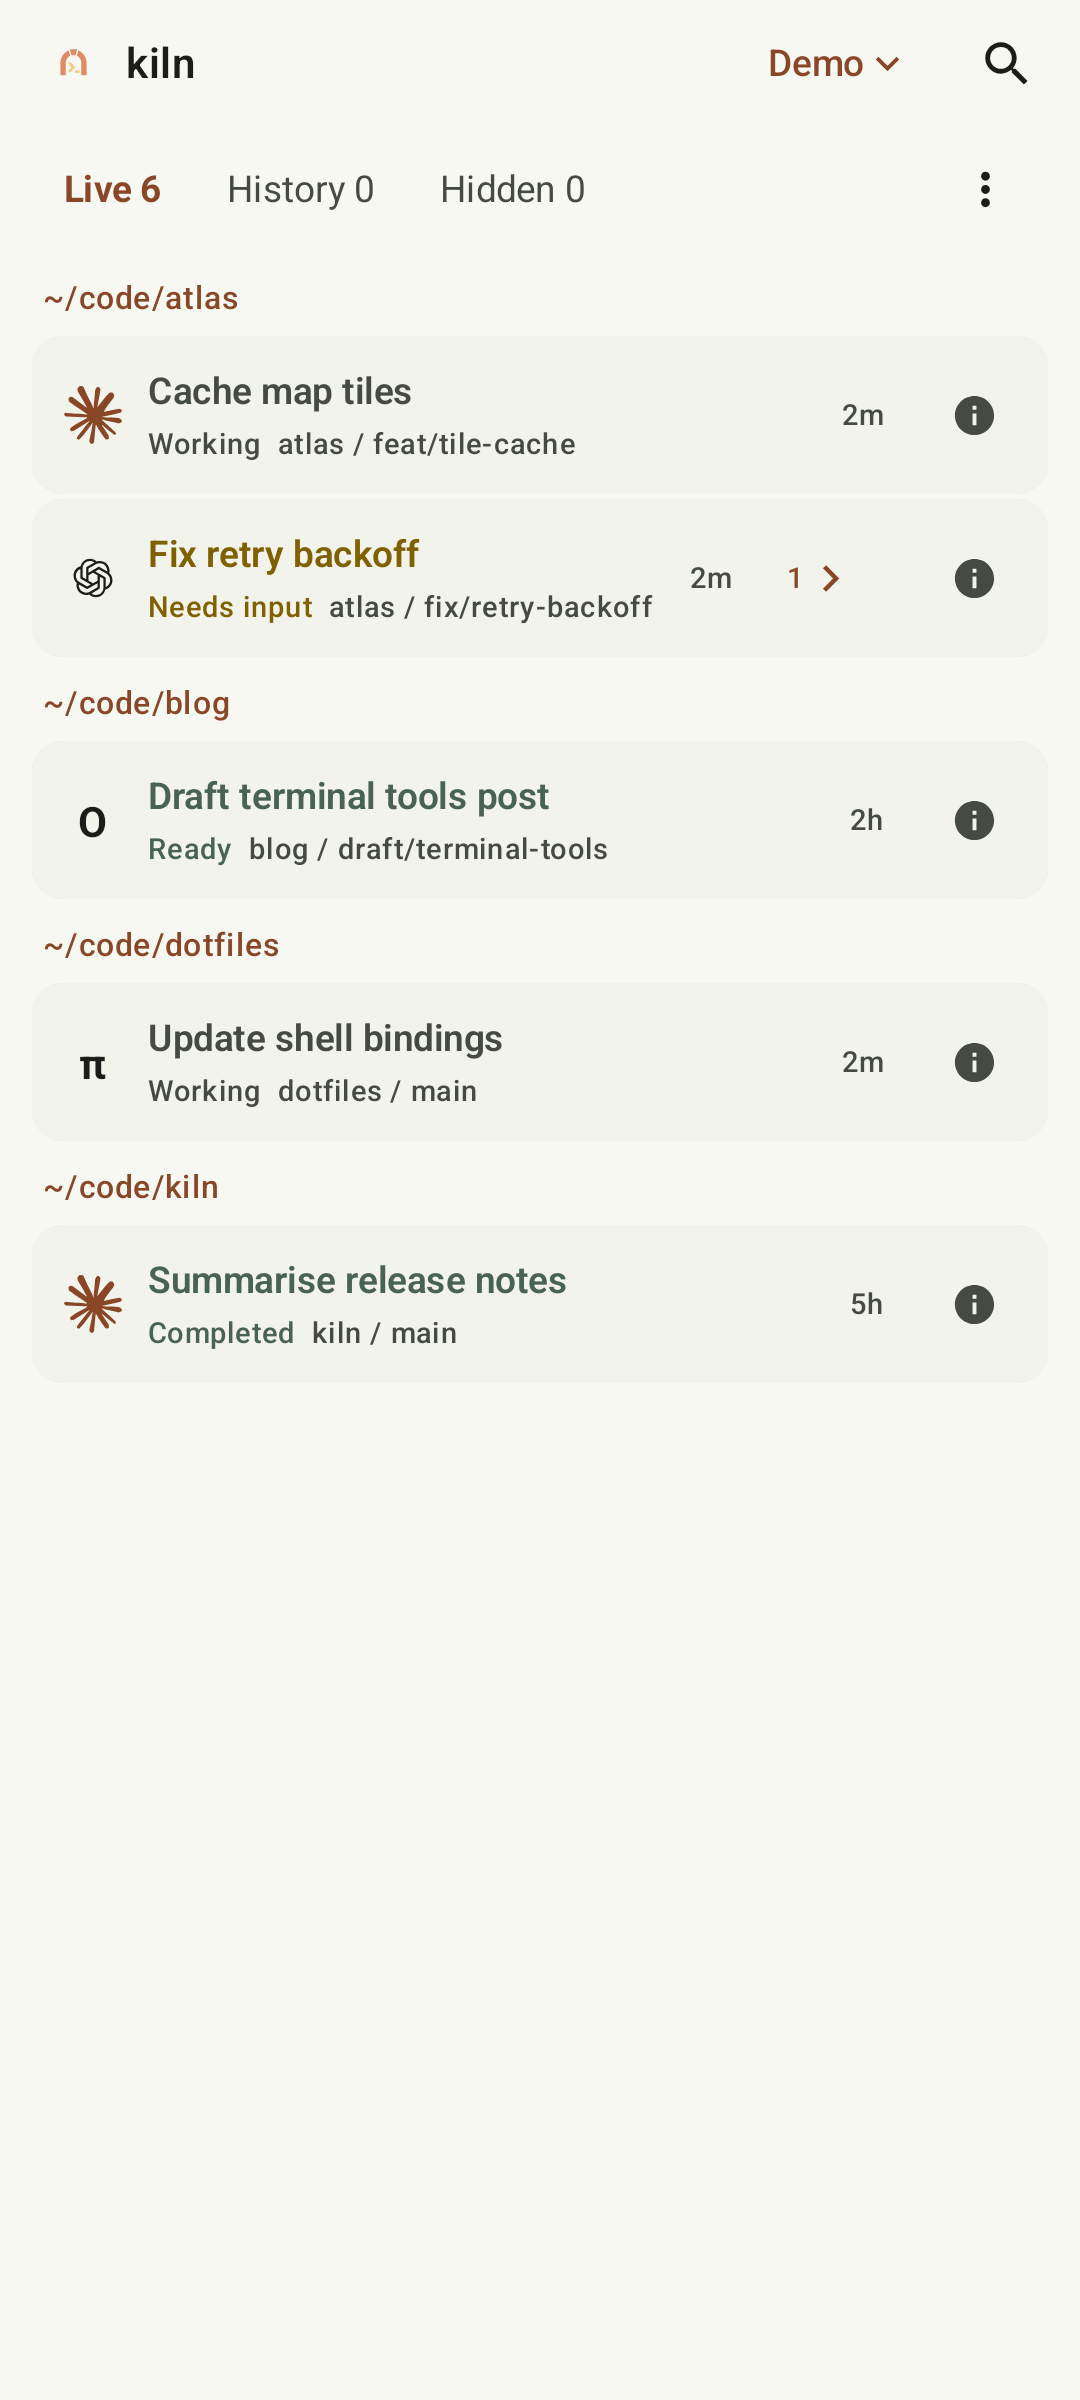
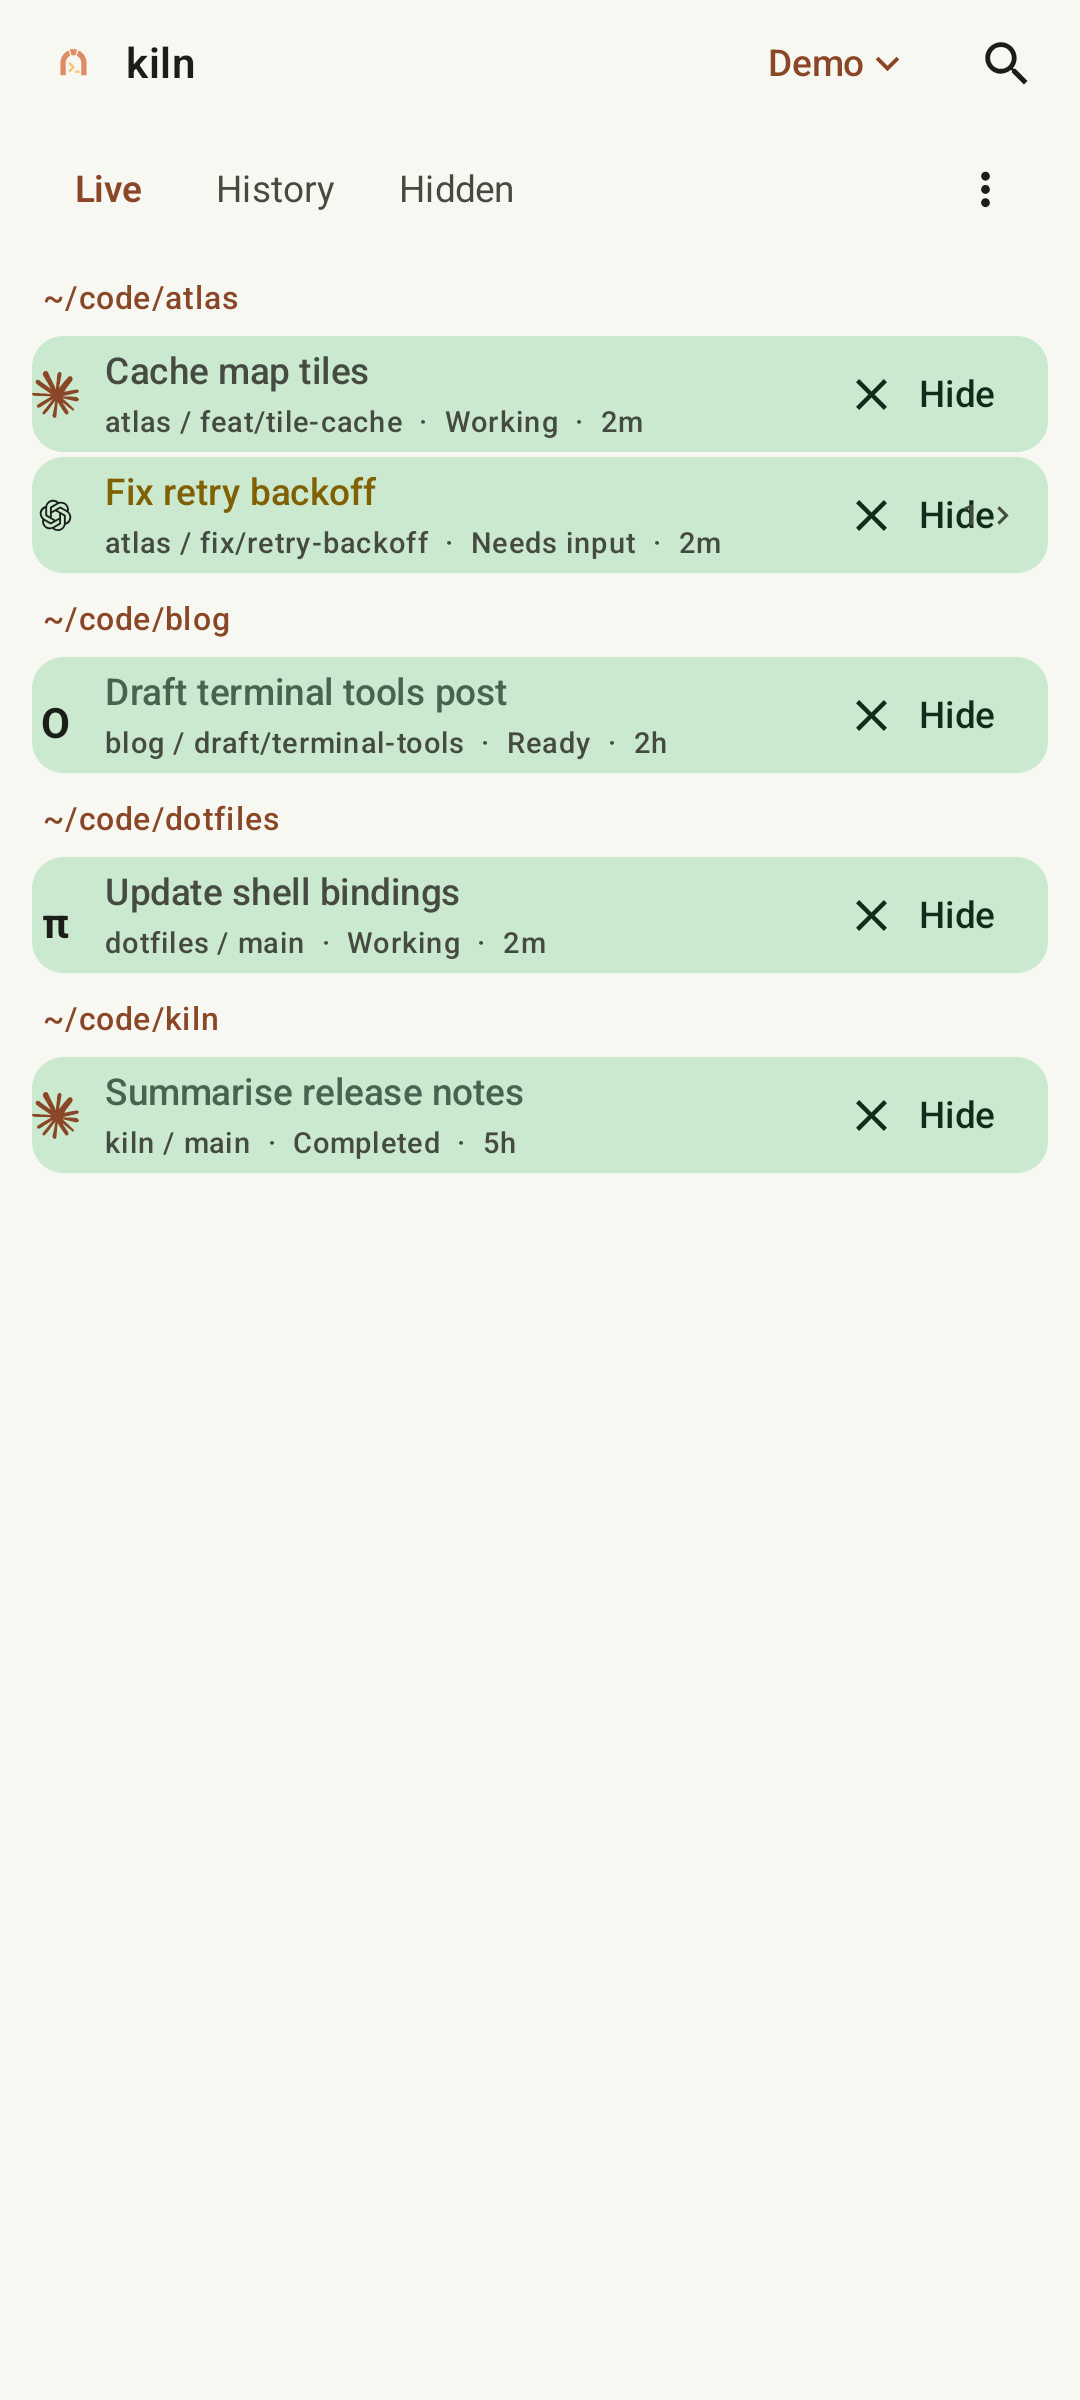
feat: flatten the Android list and quiet its header (#61)
The Android session list was heavier than the terminal. This makes the
rows text-first, matching the TUI:

- Rows drop the `Card`, the activity pill and the per-row buttons.
- The title is coloured by status; the second line is directory / branch
· status · time in muted text.
- Long-press a row for details (tap still opens).
- The Live / History / Hidden tabs drop their counts and the filter
badge.

Build is green locally: `checkKotlinFormat`, `testDebugUnitTest`,
`lintDebug`, `assembleDebug`. Android mock screenshots regenerated.

diff --git a/android/app/src/main/java/com/cjber/kiln/SessionCard.kt b/android/app/src/main/java/com/cjber/kiln/SessionCard.kt
@@ -1,16 +1,17 @@
 package com.cjber.kiln
 
+import androidx.compose.foundation.clickable
+import androidx.compose.foundation.combinedClickable
 import androidx.compose.foundation.layout.*
-import androidx.compose.foundation.shape.CircleShape
+import androidx.compose.foundation.shape.RoundedCornerShape
 import androidx.compose.material.icons.Icons
 import androidx.compose.material.icons.automirrored.filled.KeyboardArrowRight
-import androidx.compose.material.icons.filled.Check
-import androidx.compose.material.icons.filled.Info
 import androidx.compose.material.icons.filled.KeyboardArrowDown
 import androidx.compose.material3.*
 import androidx.compose.runtime.Composable
 import androidx.compose.ui.Alignment
 import androidx.compose.ui.Modifier
+import androidx.compose.ui.draw.clip
 import androidx.compose.ui.semantics.contentDescription
 import androidx.compose.ui.semantics.semantics
 import androidx.compose.ui.text.font.FontWeight
@@ -78,21 +79,6 @@ fun AgentMark(agent: Agent, modifier: Modifier = Modifier) {
 }
 
 @Composable
-fun ActivityBadge(activity: Activity) {
-    val color = activityColor(activity)
-    Surface(shape = CircleShape, color = color.copy(alpha = 0.12f), contentColor = color) {
-        Row(
-            Modifier.padding(horizontal = 10.dp, vertical = 5.dp),
-            verticalAlignment = Alignment.CenterVertically,
-            horizontalArrangement = Arrangement.spacedBy(6.dp),
-        ) {
-            Surface(Modifier.size(6.dp), shape = CircleShape, color = color) {}
-            Text(activityName(activity), style = MaterialTheme.typography.labelMedium)
-        }
-    }
-}
-
-@Composable
 fun SessionCard(
     item: SessionItem.Entry,
     now: Long,
@@ -100,44 +86,34 @@ fun SessionCard(
     open: () -> Unit,
     details: () -> Unit,
     toggle: () -> Unit,
-    restore: (() -> Unit)?,
 ) {
     val row = item.row
     val openable = row.url != null
-    Card(
-        onClick = if (openable) open else details,
-        modifier = Modifier.fillMaxWidth().padding(start = if (item.depth > 0) 16.dp else 0.dp),
-        shape = androidx.compose.foundation.shape.RoundedCornerShape(12.dp),
-        colors =
-            CardDefaults.cardColors(containerColor = MaterialTheme.colorScheme.surfaceContainerLow),
-    ) {
-        Row(
+    Row(
+        modifier =
             Modifier.fillMaxWidth()
-                .heightIn(min = 60.dp)
-                .padding(start = 12.dp, end = 4.dp, top = 4.dp, bottom = 4.dp),
-            verticalAlignment = Alignment.CenterVertically,
-            horizontalArrangement = Arrangement.spacedBy(10.dp),
-        ) {
-            AgentMark(row.agent)
-            Column(Modifier.weight(1f), verticalArrangement = Arrangement.spacedBy(2.dp)) {
-                Text(
-                    row.title,
-                    color = activityColor(row.activity),
-                    style = MaterialTheme.typography.bodyMedium,
-                    fontWeight = FontWeight.SemiBold,
-                    maxLines = 1,
-                    overflow = TextOverflow.Ellipsis,
+                .heightIn(min = 44.dp)
+                .combinedClickable(
+                    onClick = { if (openable) open() else details() },
+                    onLongClickLabel = "Details",
+                    onLongClick = details,
                 )
-                Row(
-                    verticalAlignment = Alignment.CenterVertically,
-                    horizontalArrangement = Arrangement.spacedBy(6.dp),
-                ) {
-                    Text(
-                        activityName(row.activity),
-                        style = MaterialTheme.typography.labelSmall,
-                        color = activityColor(row.activity),
-                    )
-                    Text(
+                .padding(start = if (item.depth > 0) 20.dp else 0.dp, end = 4.dp),
+        verticalAlignment = Alignment.CenterVertically,
+        horizontalArrangement = Arrangement.spacedBy(10.dp),
+    ) {
+        AgentMark(row.agent, Modifier.size(18.dp))
+        Column(Modifier.weight(1f), verticalArrangement = Arrangement.spacedBy(1.dp)) {
+            Text(
+                row.title,
+                color = activityColor(row.activity),
+                style = MaterialTheme.typography.bodyMedium,
+                fontWeight = FontWeight.Medium,
+                maxLines = 1,
+                overflow = TextOverflow.Ellipsis,
+            )
+            Text(
+                listOfNotNull(
                         if (row.where == Place.CLOUD) "Cloud"
                         else
                             listOf(
@@ -145,48 +121,39 @@ fun SessionCard(
                                     row.branch.takeIf { it.isNotBlank() },
                                 )
                                 .filterNotNull()
-                                .joinToString(" / "),
-                        style = MaterialTheme.typography.labelSmall,
-                        color = MaterialTheme.colorScheme.onSurfaceVariant,
-                        maxLines = 1,
-                        overflow = TextOverflow.Ellipsis,
-                        modifier = Modifier.weight(1f),
+                                .joinToString(" / ")
+                                .takeIf { it.isNotBlank() },
+                        activityName(row.activity),
+                        if (row.active > 0) elapsed(row.active, now) else null,
                     )
-                }
-            }
-            Text(
-                if (row.active > 0) elapsed(row.active, now) else "?",
+                    .joinToString("  ·  "),
                 style = MaterialTheme.typography.labelSmall,
                 color = MaterialTheme.colorScheme.onSurfaceVariant,
-                modifier =
-                    Modifier.semantics { contentDescription = relativeTime(row.active, now) },
+                maxLines = 1,
+                overflow = TextOverflow.Ellipsis,
             )
-            if (item.children > 0)
-                TextButton(
-                    onClick = toggle,
-                    contentPadding = PaddingValues(0.dp),
-                    modifier = Modifier.size(48.dp),
-                ) {
-                    Text(item.children.toString(), style = MaterialTheme.typography.labelSmall)
-                    Icon(
-                        if (expanded) Icons.Default.KeyboardArrowDown
-                        else Icons.AutoMirrored.Filled.KeyboardArrowRight,
-                        "${if (expanded) "Collapse" else "Expand"} ${item.children} subagents",
-                        modifier = Modifier.size(20.dp),
-                    )
-                }
-            if (restore != null)
-                IconButton(onClick = restore, modifier = Modifier.size(48.dp)) {
-                    Icon(Icons.Default.Check, "Restore ${row.title}", Modifier.size(20.dp))
-                }
-            IconButton(onClick = details, modifier = Modifier.size(48.dp)) {
+        }
+        if (item.children > 0)
+            Row(
+                modifier =
+                    Modifier.clip(RoundedCornerShape(6.dp))
+                        .clickable(onClick = toggle)
+                        .padding(horizontal = 6.dp, vertical = 4.dp),
+                verticalAlignment = Alignment.CenterVertically,
+                horizontalArrangement = Arrangement.spacedBy(2.dp),
+            ) {
+                Text(
+                    item.children.toString(),
+                    style = MaterialTheme.typography.labelSmall,
+                    color = MaterialTheme.colorScheme.onSurfaceVariant,
+                )
                 Icon(
-                    Icons.Default.Info,
-                    "Details for ${row.title}",
-                    modifier = Modifier.size(18.dp),
+                    if (expanded) Icons.Default.KeyboardArrowDown
+                    else Icons.AutoMirrored.Filled.KeyboardArrowRight,
+                    null,
+                    Modifier.size(14.dp),
                     tint = MaterialTheme.colorScheme.onSurfaceVariant,
                 )
             }
-        }
     }
 }

diff --git a/android/app/src/main/java/com/cjber/kiln/SessionUi.kt b/android/app/src/main/java/com/cjber/kiln/SessionUi.kt
@@ -233,7 +233,7 @@ fun SessionScreen(
                             ErrorNotice(error, onDismissError)
                             if (problem.isNotBlank())
                                 ConnectionNotice("Discovery needs attention", problem, onReconnect)
-                            if (!fresh)
+                            if (state != ConnectionState.CONNECTED)
                                 ConnectionNotice(
                                     status,
                                     if (loaded) "Last update: ${relativeTime(updated, now)}."
@@ -266,17 +266,6 @@ fun SessionScreen(
                                 )
                             Row(verticalAlignment = Alignment.CenterVertically) {
                                 SessionScope.entries.forEach { value ->
-                                    val count =
-                                        sessionItems(
-                                                rows,
-                                                SessionOrder.RECENT,
-                                                "",
-                                                rows.mapTo(mutableSetOf()) { it.id },
-                                                value,
-                                                now,
-                                                hiddenIds = hiddenIds,
-                                            )
-                                            .count { it is SessionItem.Entry }
                                     TextButton(
                                         modifier = Modifier.semantics { selected = scope == value },
                                         onClick = {
@@ -292,24 +281,20 @@ fun SessionScreen(
                                             ),
                                     ) {
                                         Text(
-                                            "${value.label} $count",
+                                            value.label,
                                             fontWeight =
-                                                if (scope == value) FontWeight.Bold
+                                                if (scope == value) FontWeight.SemiBold
                                                 else FontWeight.Normal,
                                         )
                                     }
                                 }
                                 Spacer(Modifier.weight(1f))
                                 IconButton(onClick = { options = true }) {
-                                    BadgedBox(
-                                        badge = { if (agent != null || activity != null) Badge() }
-                                    ) {
-                                        Icon(
-                                            Icons.Default.MoreVert,
-                                            "Filter and sort sessions: ${sort.label}",
-                                            Modifier.size(20.dp),
-                                        )
-                                    }
+                                    Icon(
+                                        Icons.Default.MoreVert,
+                                        "Filter and sort sessions: ${sort.label}",
+                                        Modifier.size(20.dp),
+                                    )
                                 }
                             }
                         }

diff --git a/android/app/src/main/java/com/cjber/kiln/SessionDetails.kt b/android/app/src/main/java/com/cjber/kiln/SessionDetails.kt
@@ -38,7 +38,11 @@ fun SessionDetails(
             )
             Row(horizontalArrangement = Arrangement.spacedBy(12.dp)) {
                 Text(agentName(row.agent), style = MaterialTheme.typography.titleMedium)
-                ActivityBadge(row.activity)
+                Text(
+                    activityName(row.activity),
+                    style = MaterialTheme.typography.titleMedium,
+                    color = activityColor(row.activity),
+                )
             }
             SelectionContainer {
                 Column(verticalArrangement = Arrangement.spacedBy(16.dp)) {

diff --git a/android/app/src/main/java/com/cjber/kiln/SwipeSessionRow.kt b/android/app/src/main/java/com/cjber/kiln/SwipeSessionRow.kt
@@ -69,14 +69,6 @@ fun SwipeSessionRow(
             }
         },
     ) {
-        SessionCard(
-            item,
-            now,
-            expanded,
-            open,
-            details,
-            toggle,
-            if (hidden) restore else null,
-        )
+        SessionCard(item, now, expanded, open, details, toggle)
     }
 }

diff --git a/CHANGELOG.md b/CHANGELOG.md
@@ -11,6 +11,8 @@ verbatim.
 
 - **OpenCode is a fourth agent.** `n` starts OpenCode, the list shows its titles and whether it is working, waiting or ready, helpers nest under their parent, and a session a restart stopped resumes in place. Closing a session interrupts and archives it, and a conversation still running with no terminal can be attached. It shares `.agents/skills` without links. On the phone these rows open on the PC, and the Android app must be updated with the desktop to read them.
 
+- **The Android list is flatter.** Session rows drop the card, the activity pill and the per-row buttons for text-only rows like the terminal: the title is coloured by status, long-press shows details, and the Live, History and Hidden tabs no longer carry counts.
+
 ## [0.11.3] - 2026-10-06
 
 - **Helpers appear under their parent conversation.** Claude helpers launched by Codex nest under the conversation that started them. Parent links work across Claude, Codex and Pi, including grandchildren, and survive removal of duplicate Codex terminal rows.
